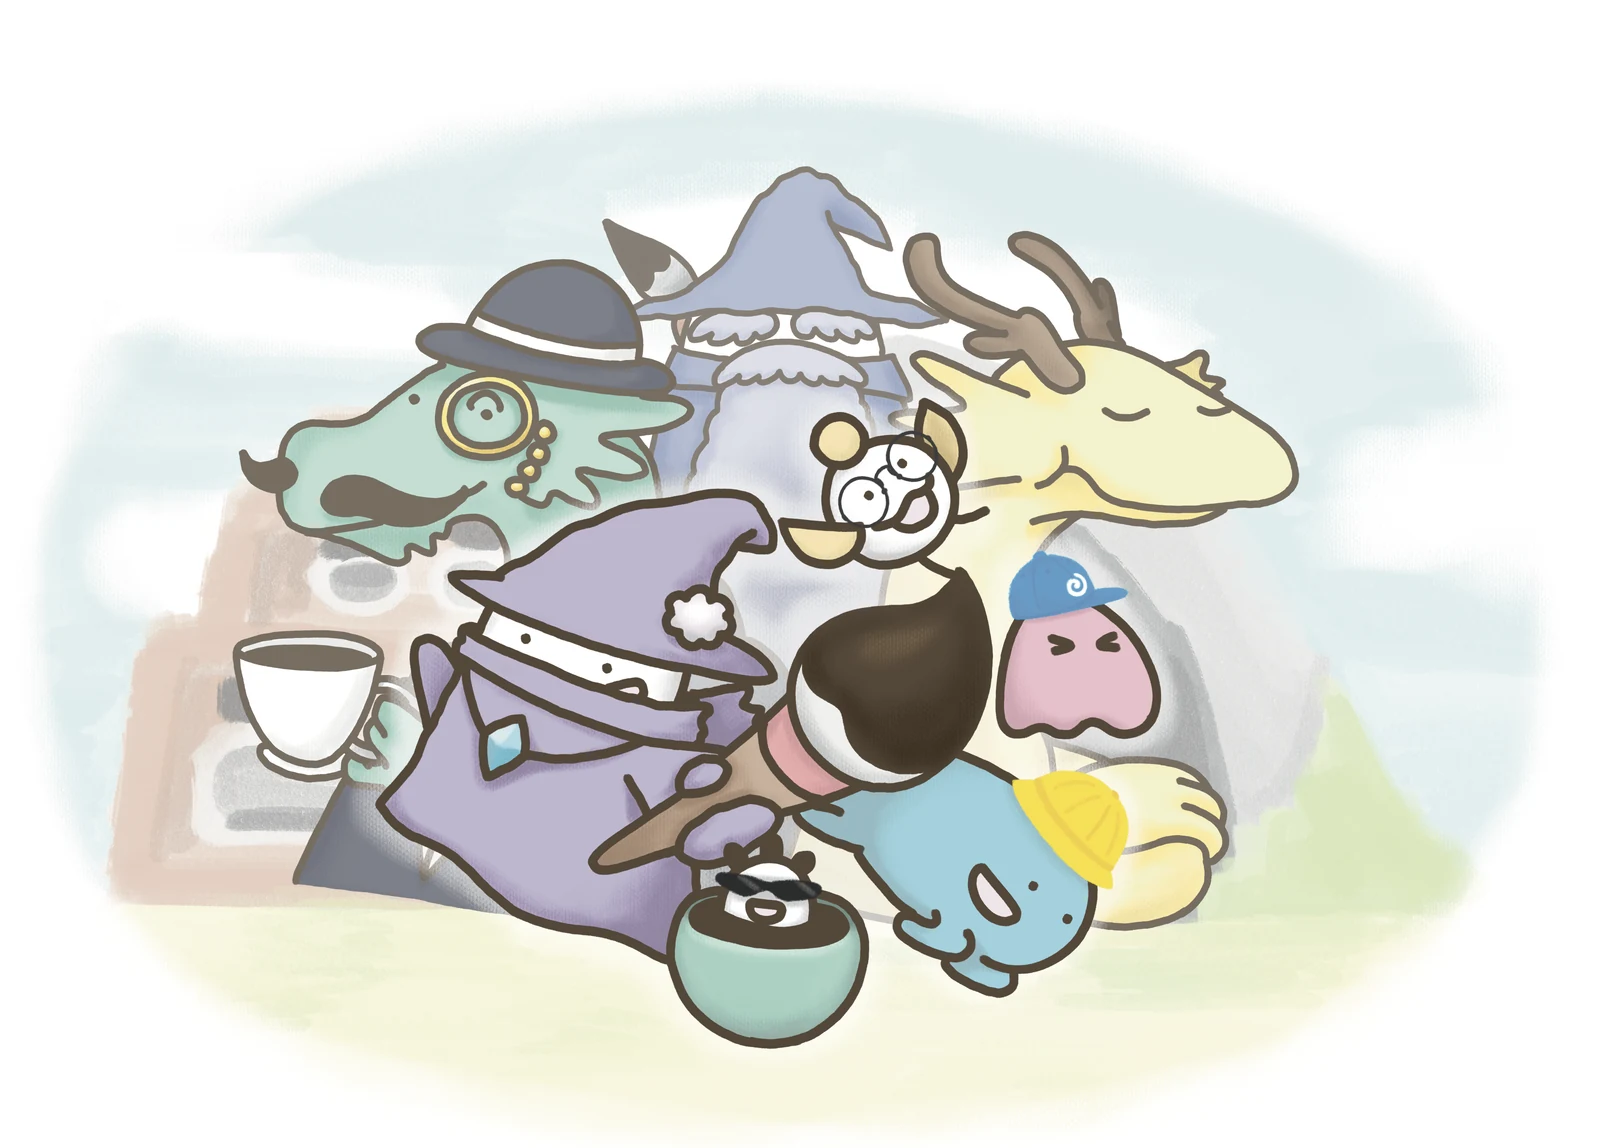
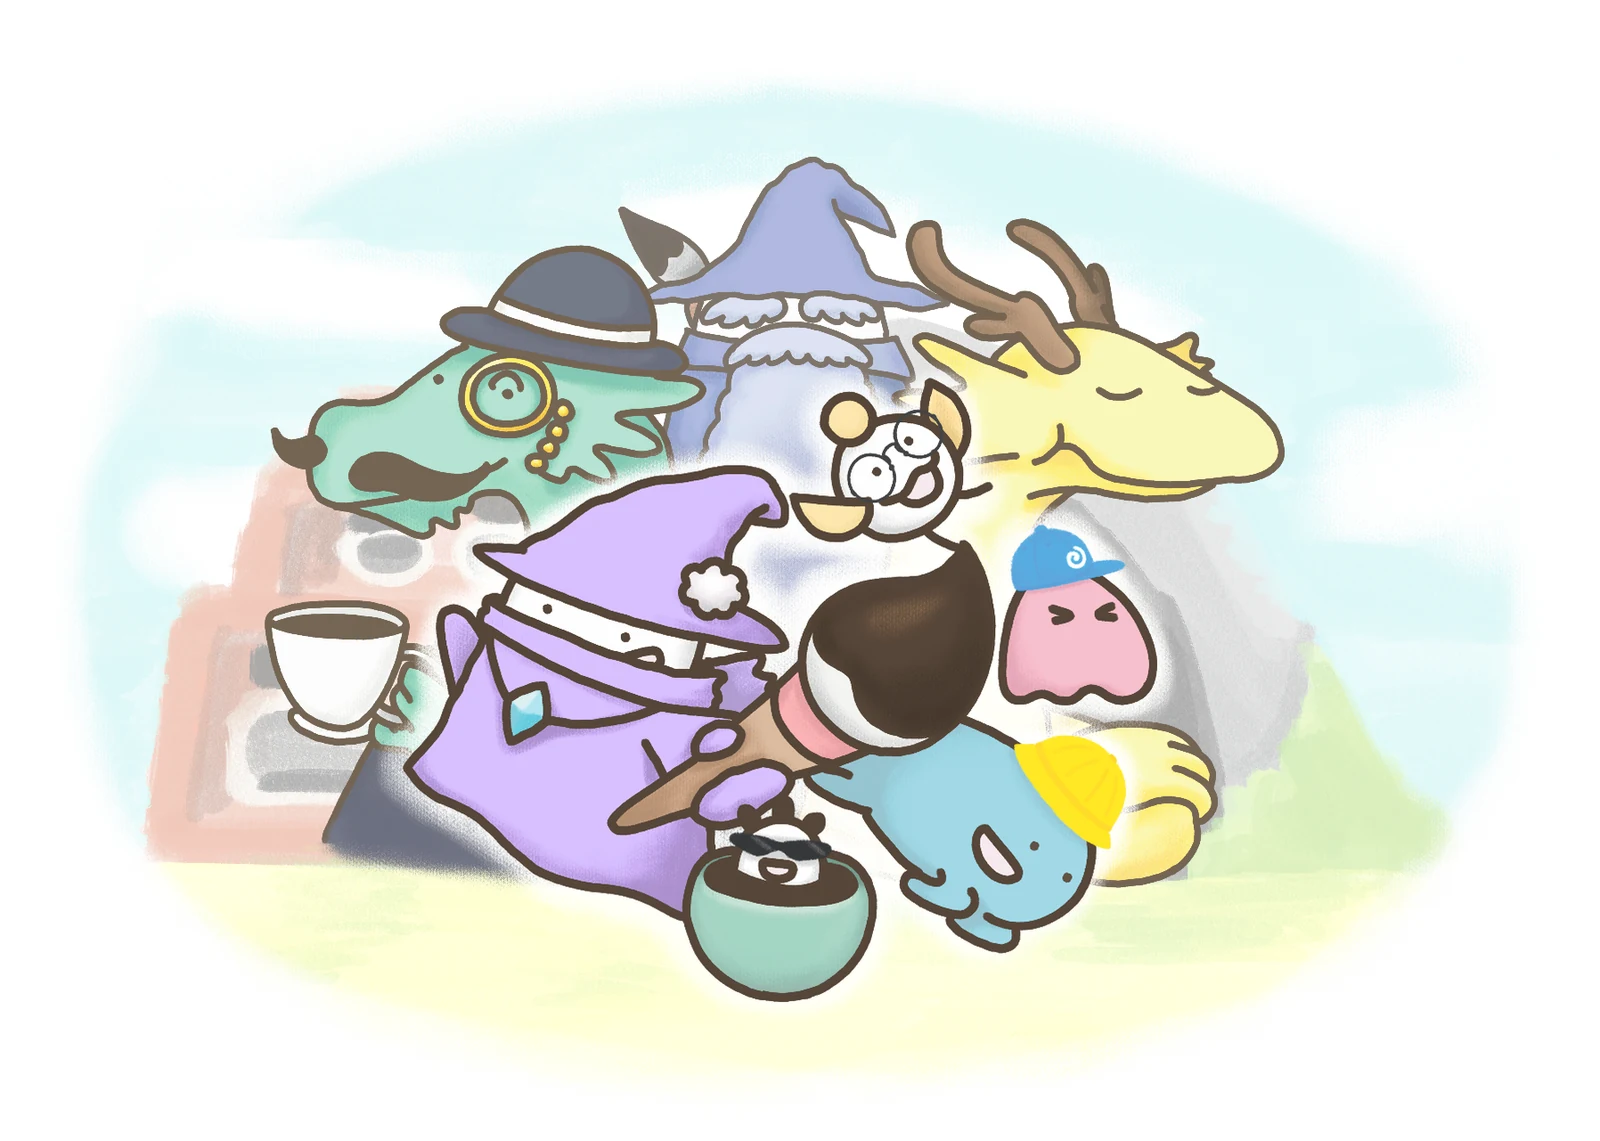
퐁퐁두두 키아트를 게임 빌드 타이틀과 동일하게 교체
- Login 씬의 newtitle.png(배경) + titleimage2.png(앞 캐릭터)를 RectTransform 값대로 합성
- 이전 maintitle.png는 흰 안개가 씌워진 흐린 별도판이었음. og.jpg도 같은 그림으로 교체
- README에 원본·시놀로지 사본(1_출시/대표이미지/게임타이틀_빌드사용본) 위치 기록

diff --git a/ponpondoodoo/ja/index.html b/ponpondoodoo/ja/index.html
@@ -111,7 +111,7 @@
 
 <section class="hero">
   <div class="hero-inner">
-    <img class="hero-art" src="../assets/keyart.webp" alt="ポンポンドゥードゥー キービジュアル — シッターとポンポンたち" width="1600" height="1148" fetchpriority="high">
+    <img class="hero-art" src="../assets/keyart.webp" alt="ポンポンドゥードゥー キービジュアル — シッターとポンポンたち" width="1600" height="1141" fetchpriority="high">
     <div class="hero-copy">
       <img class="hero-logo" src="../assets/logo.webp" alt="ポンポンドゥードゥー" width="1000" height="161">
       <h1>1日10分、日常に疲れた自分に贈る時間</h1>

diff --git a/ponpondoodoo/en/index.html b/ponpondoodoo/en/index.html
@@ -112,7 +112,7 @@
 
 <section class="hero">
   <div class="hero-inner">
-    <img class="hero-art" src="../assets/keyart.webp" alt="ponpondoodoo key visual — the Caretakers and their ponpons" width="1600" height="1148" fetchpriority="high">
+    <img class="hero-art" src="../assets/keyart.webp" alt="ponpondoodoo key visual — the Caretakers and their ponpons" width="1600" height="1141" fetchpriority="high">
     <div class="hero-copy">
       <img class="hero-logo" src="../assets/logo.webp" alt="ponpondoodoo" width="1000" height="161">
       <h1>With just 10 minutes a day, a day of exhaustion melts away</h1>

diff --git a/ponpondoodoo/index.html b/ponpondoodoo/index.html
@@ -112,7 +112,7 @@
 
 <section class="hero">
   <div class="hero-inner">
-    <img class="hero-art" src="assets/keyart.webp" alt="퐁퐁두두2 키 비주얼 — 돌보미와 퐁퐁이들" width="1600" height="1148" fetchpriority="high">
+    <img class="hero-art" src="assets/keyart.webp" alt="퐁퐁두두2 키 비주얼 — 돌보미와 퐁퐁이들" width="1600" height="1141" fetchpriority="high">
     <div class="hero-copy">
       <img class="hero-logo" src="assets/logo.webp" alt="퐁퐁두두2" width="1000" height="161">
       <h1>하루 10분, 나의 성격을 알아가는 힐링 키우기</h1>

diff --git a/ponpondoodoo/README.md b/ponpondoodoo/README.md
@@ -61,7 +61,7 @@ node tools/render-ponpondoodoo.cjs --check  # HTML이 생성 결과와 같은지
 |---|---|
 | 특징 섹션 그림(personality-*, question-ui, evolution-tree, egg1~4, ponpon-crowd, deco-*, fun-*; 미사용 fun-blob·fun-mini-lava·fun-mini-space는 2026-09-23 삭제) | ALT+G 사이니지 `1_사이니지.ai`에 임베드된 래스터를 PyMuPDF로 추출. ⚠ **사이니지 이미지는 인쇄용 DeviceCMYK라 RGB 원본보다 약간 탁하다** — 월하 판단으로 이 섹션은 그대로 둠(2026-09-23). 나중에 교체한다면 RGB 원본 후보: 슬라이더 `1_출시/피그마용/4 페이지.png`, 진화 트리 `피그마용/characters.png`, 물음표 `피그마용/레이어 70.png`, 오락기 `22_굿즈/현수막배너/배너/레이어_20.png`, 질문 화면 `1_출시/screenshots/스샷/IMG_0102 1.png` |
 | logo.webp · walking.webp | RGB 원본 `1_출시/대표이미지/title.png` · `walking.png` |
-| keyart.webp · og.jpg | **`1_출시/대표이미지/maintitle.png`(9000×8000, Display P3)** 직접. keyart.webp에는 P3 ICC를 **그대로 넣었다**(넓은 색역 화면에서 원래 색). og.jpg는 P3→sRGB 변환(SNS가 ICC를 버리기 때문). ⚠ 인쇄용 PDF(테이블커버·사이니지)에서 뽑으면 CMYK라 탁해진다 — 2026-09-23에 그렇게 넣었다가 교체함 |
+| keyart.webp · og.jpg | **게임 빌드 타이틀과 동일하게 합성**: ponpondoodoo2 리포 `Assets/MyAsset/Image/UI/12_Title/newtitle.png`(배경 타원) 위에 `titleimage2.png`(앞 캐릭터)를 `Login.unity`의 RectTransform 값(TitleImg_Back/Front 위치·크기)대로 겹침. 시놀로지 사본 = `1_출시/대표이미지/게임타이틀_빌드사용본/`(원본 3장 + 합성본 `game_title_composite.png`). ⚠ `1_출시/대표이미지/maintitle.png`는 흰 안개를 씌운 **흐린 별도 버전**이고, 인쇄용 PDF(테이블커버·사이니지) 추출본은 CMYK라 더 탁하다 — 둘 다 쓰지 말 것(2026-09-23 교체 이력) |
 | chars/c01~c27 | `2_홍보/4_사이트/characters/character1~27.png`(모두 600×600 캔버스, 캐릭터 체구 비율대로 그려져 있음) — 흰 배경을 flood fill로 투명화하고 **캔버스 기준 같은 배율(0.5)로 축소 후 trim**. 그래서 이미지 크기 차이 = 실제 체구 차이. 크기표 `tools/ponpondoodoo-chars.json`을 생성기가 읽어 절반 크기로 표시(레티나 2배). 다시 뽑으면 json도 갱신 |
 | icon.webp · favicon.png | `1_출시/app icon.png` |
 | 폰트 | ponpondoodoo2 리포 `Assets/MyAsset/Fonts/GameFont.ttf`·`KiwiMaru-Medium.ttf` |
